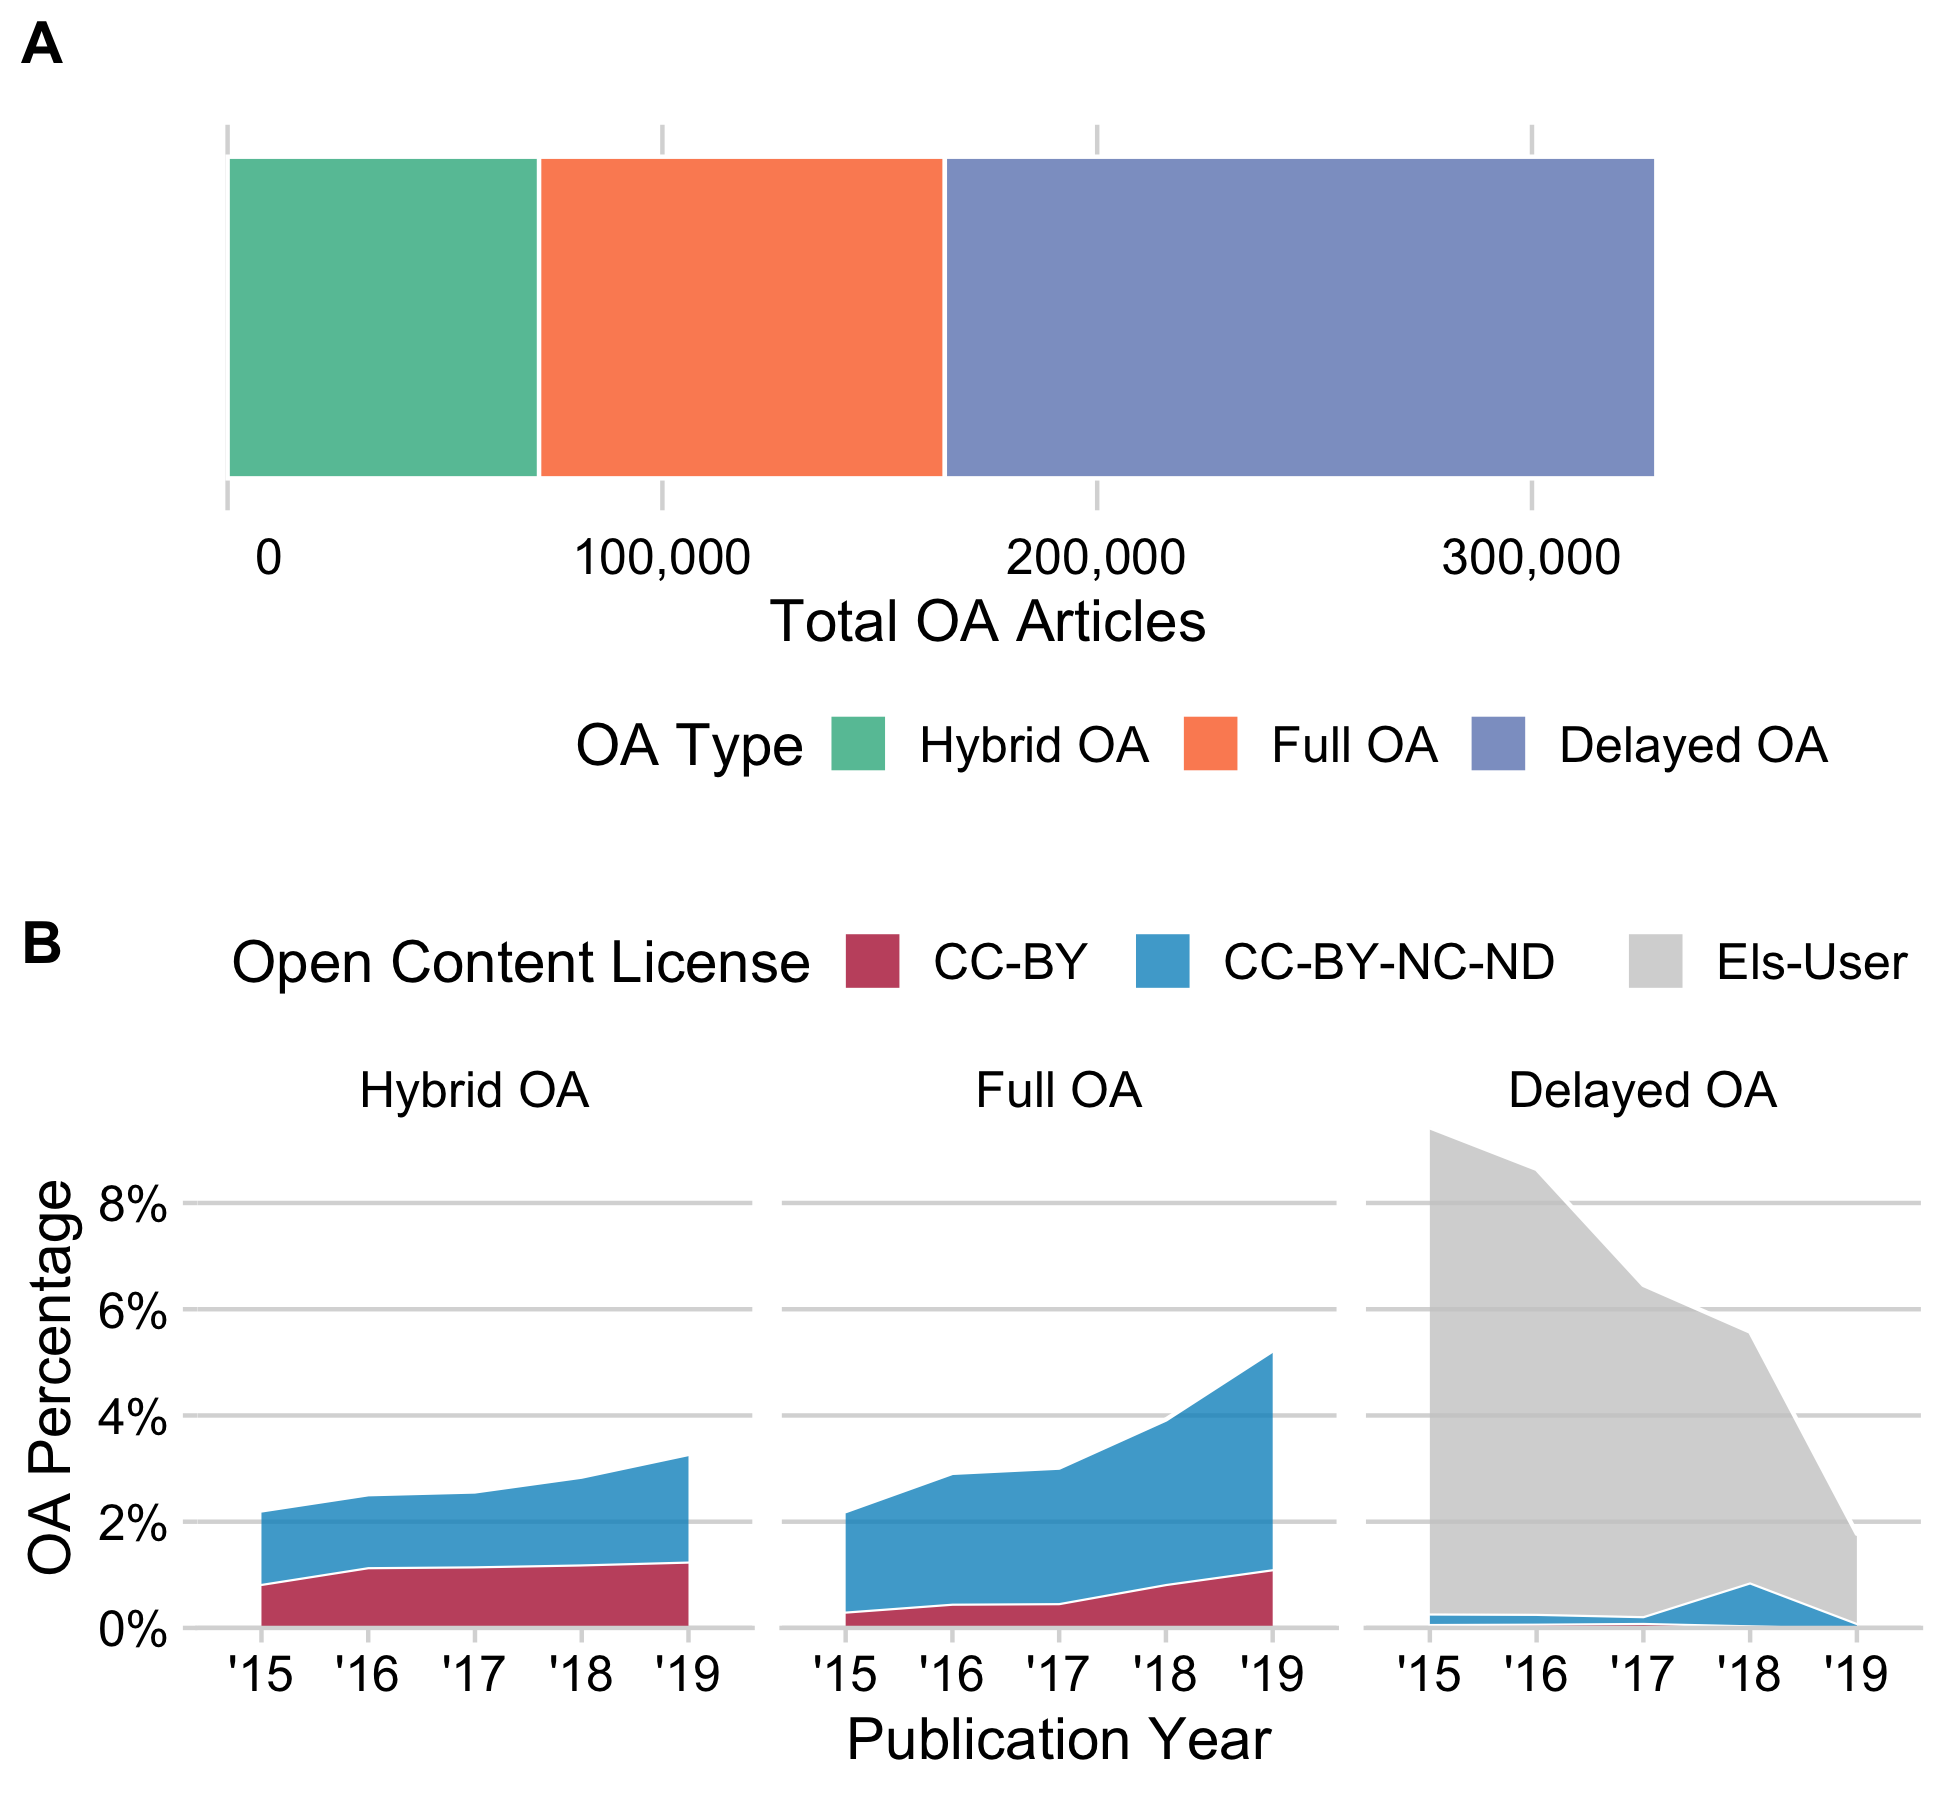
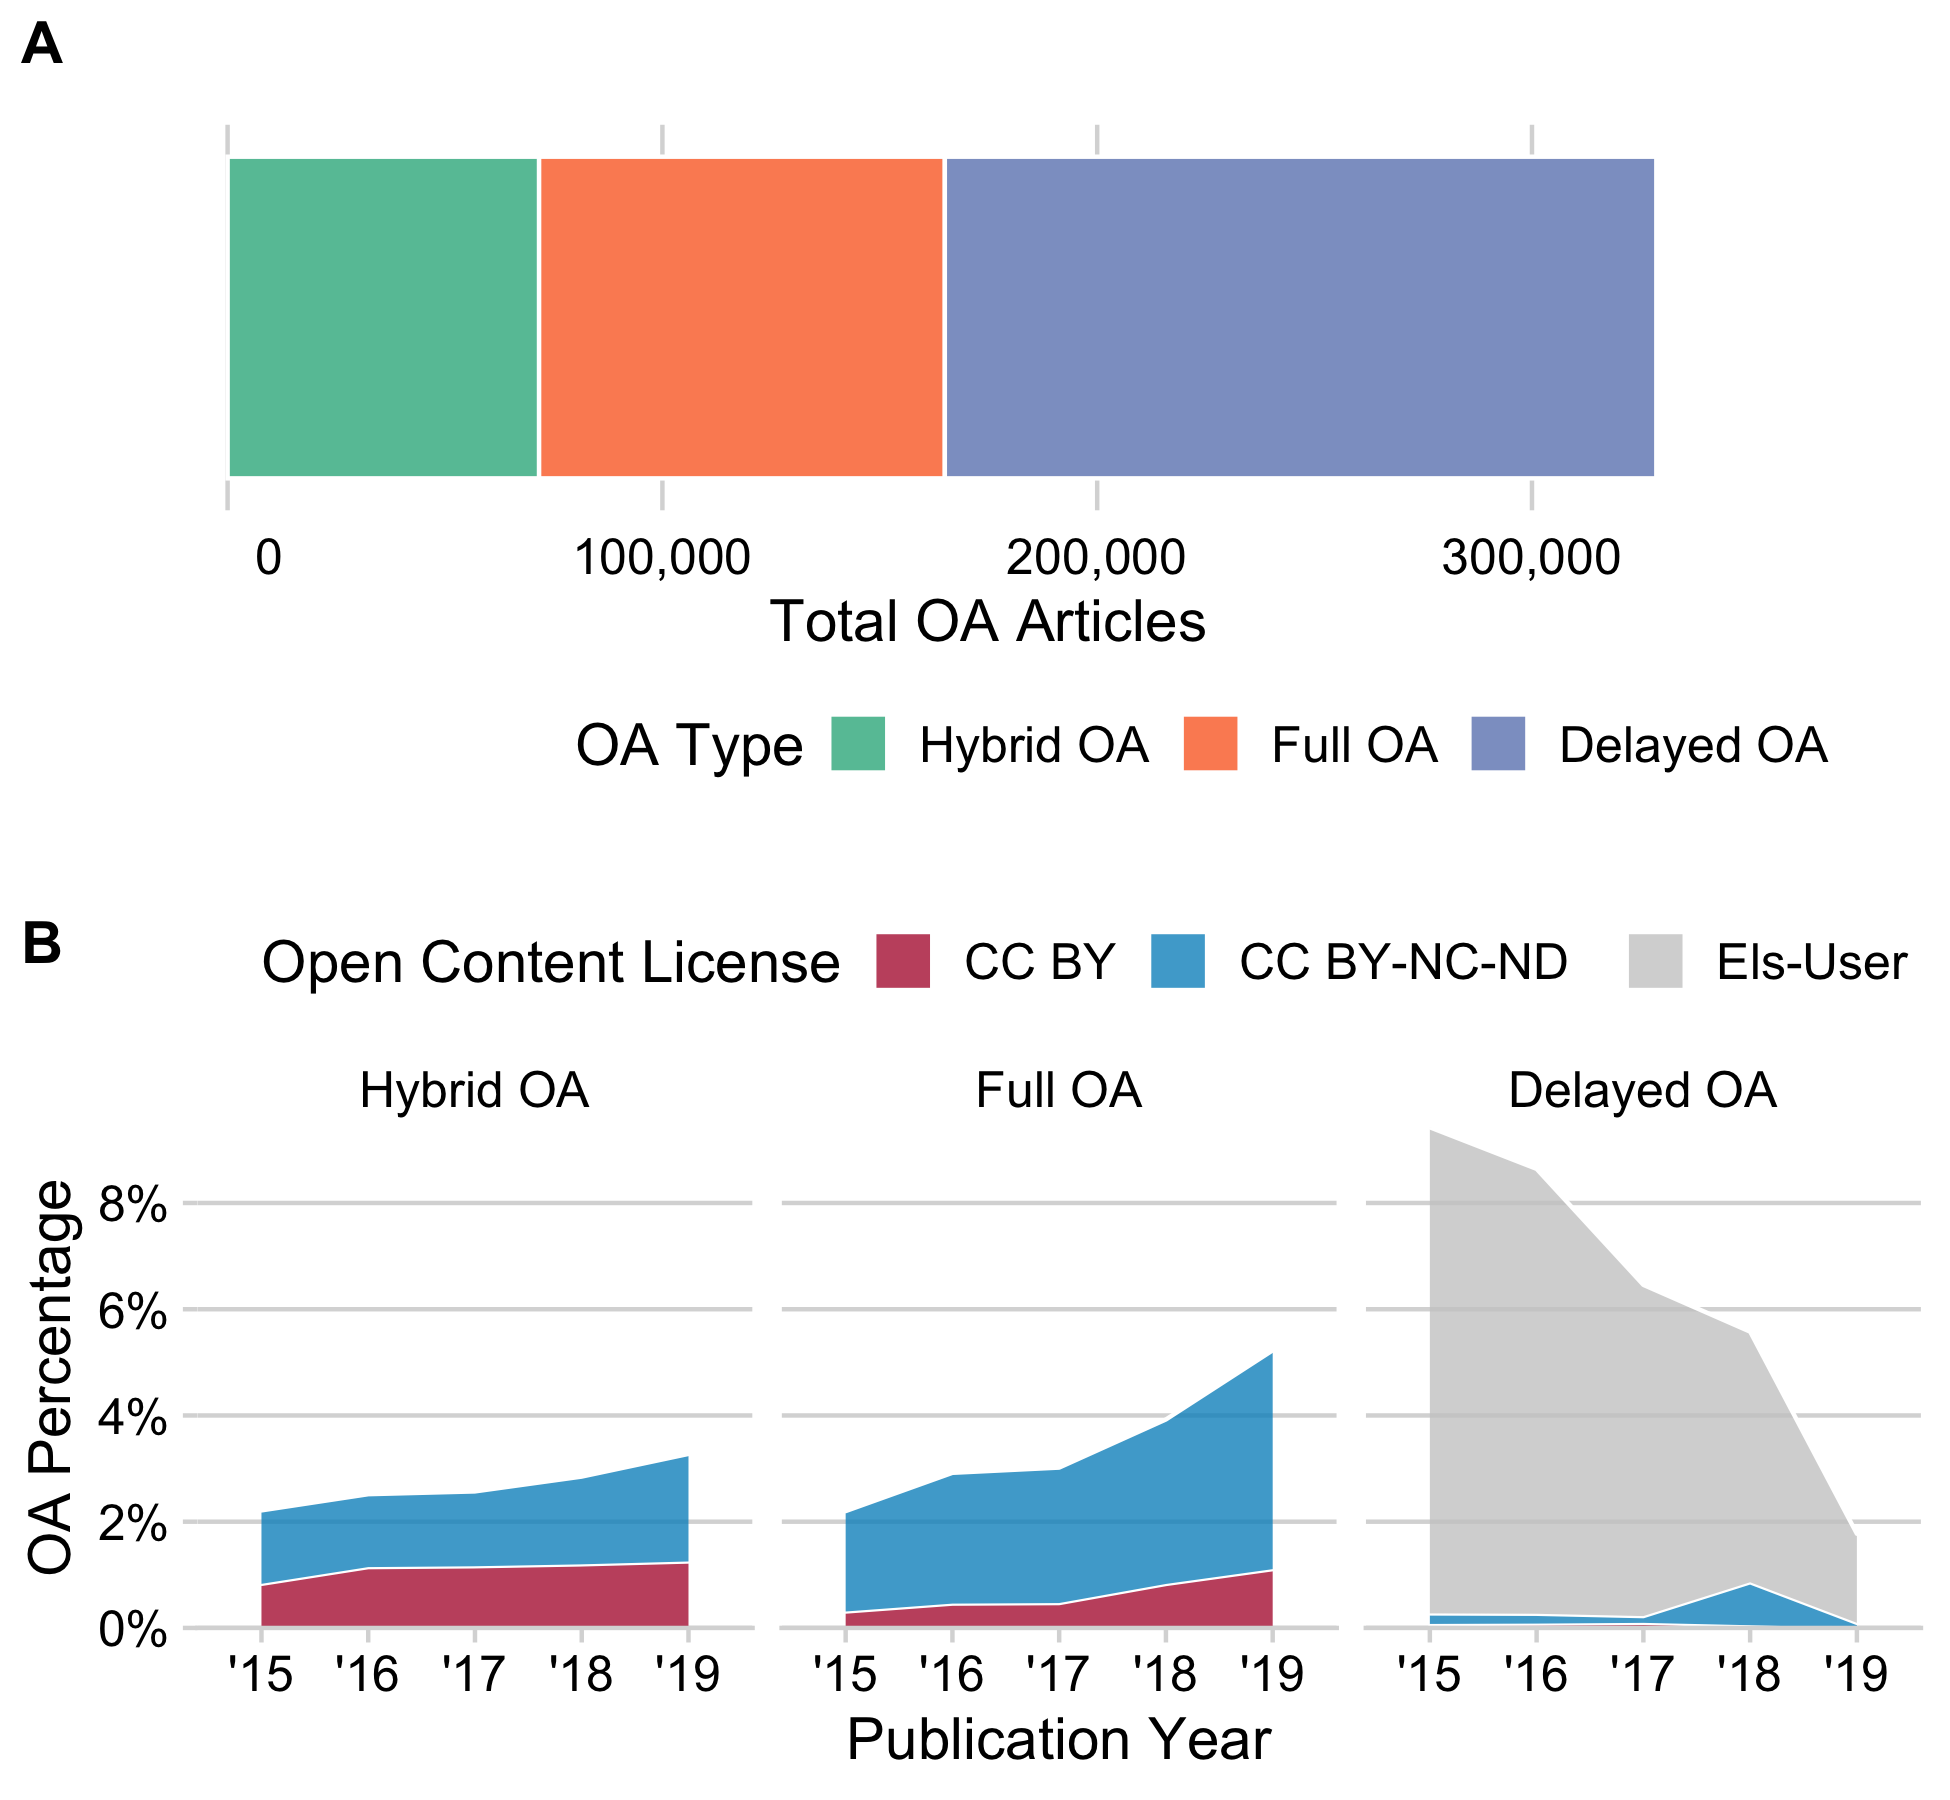
final results :-)

Changed region(s): [[0.1231, 0.4978, 0.8, 0.56]]

diff --git a/analysis/006_license.md b/analysis/006_license.md
@@ -64,8 +64,8 @@ SELECT
 license_by_year <- license_agg %>%
   mutate(license_code =
            case_when(
-             grepl("/by/", license_url) ~ "CC-BY",
-             grepl("/by-nc", license_url) ~ "CC-BY-NC-ND",
+             grepl("/by/", license_url) ~ "CC BY",
+             grepl("/by-nc", license_url) ~ "CC BY-NC-ND",
              grepl("userlicense", license_url) ~ "Els-User")
   ) %>%
   group_by(license_code, oa_type, issued_year) %>%
@@ -78,7 +78,7 @@ just immediate hybrid
 im_hybrid <- hybrid_articles <- readr::read_csv(here::here("data", "hybrid_articles.csv"))
 
 cc_hybrid <- im_hybrid %>%
-  mutate(license_code = ifelse(grepl("/by/", URL), "CC-BY", "CC-BY-NC-ND")) %>%
+  mutate(license_code = ifelse(grepl("/by/", URL), "CC BY", "CC BY-NC-ND")) %>%
   group_by(license_code, issued_year) %>%
   summarise(hybrid_immediate_articles = n()) %>%
   mutate(immediate = "immediate",
@@ -157,8 +157,8 @@ p_1 <- year_per_oa_type_and_license %>%
     breaks = c(0, 0.02, 0.04, 0.06, 0.08)
   ) +
   scale_fill_manual(values = 
-                      c(`CC-BY` = "#B52141",
-                        `CC-BY-NC-ND` = "#0093c7",
+                      c(`CC BY` = "#B52141",
+                        `CC BY-NC-ND` = "#0093c7",
                         `Els-User` = "grey80")) +
   labs(x = "Publication Year", y = "OA Percentage") +
   theme_minimal_hgrid() +
@@ -238,16 +238,16 @@ els_yearly_mirror
 #> # A tibble: 40 x 3
 #>    issued_year container_title                                      all_articles
 #>          <int> <chr>                                                       <int>
-#>  1        2018 Journal of Hydrology X                                          5
-#>  2        2019 Journal of Hydrology X                                         33
-#>  3        2019 Atmospheric Environment: X                                     50
-#>  4        2019 Toxicon: X                                                     17
-#>  5        2019 European Journal of Obstetrics & Gynecology and Rep…           80
-#>  6        2019 Journal of Computational Physics: X                            33
-#>  7        2019 Journal of Structural Biology: X                               10
-#>  8        2019 Respiratory Medicine: X                                        11
-#>  9        2019 Optical Materials: X                                           34
-#> 10        2019 Contraception: X                                               13
+#>  1        2018 Water Research X                                               12
+#>  2        2019 Atmospheric Environment: X                                     50
+#>  3        2019 Toxicon: X                                                     17
+#>  4        2019 Journal of Structural Biology: X                               10
+#>  5        2019 Journal of Computational Physics: X                            33
+#>  6        2019 Optical Materials: X                                           34
+#>  7        2019 European Journal of Obstetrics & Gynecology and Rep…           80
+#>  8        2019 Energy Conversion and Management: X                            14
+#>  9        2019 Gene: X                                                        19
+#> 10        2019 Chemical Engineering Science: X                                43
 #> # … with 30 more rows
 ```
 
